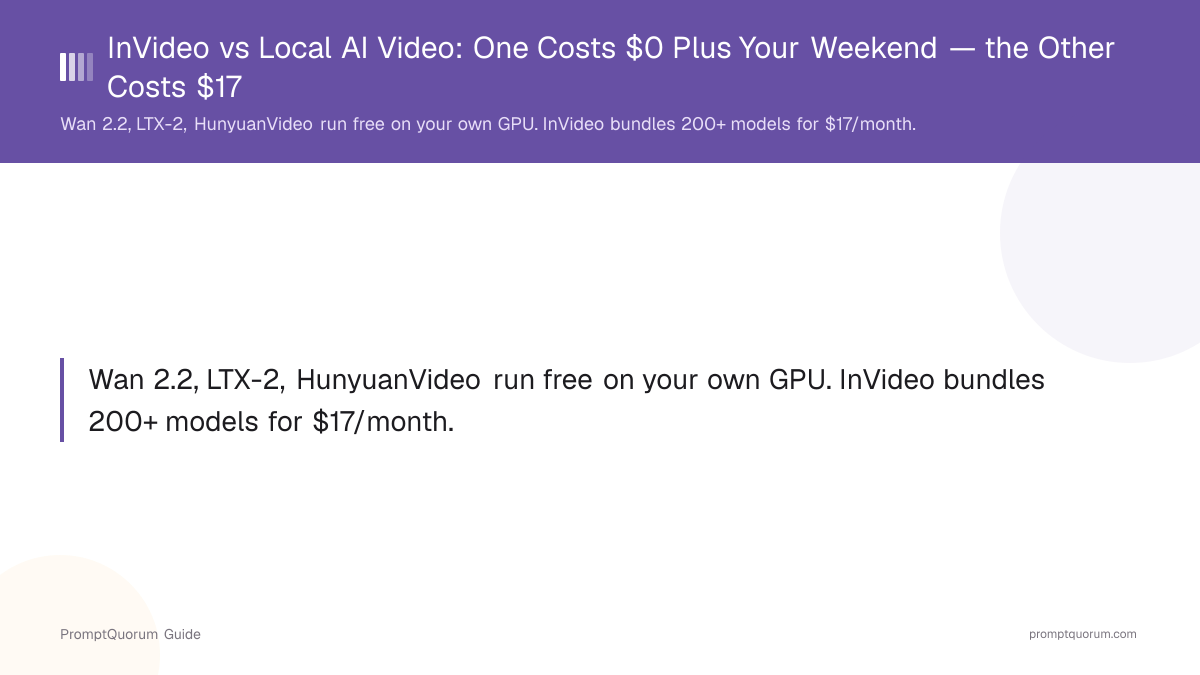
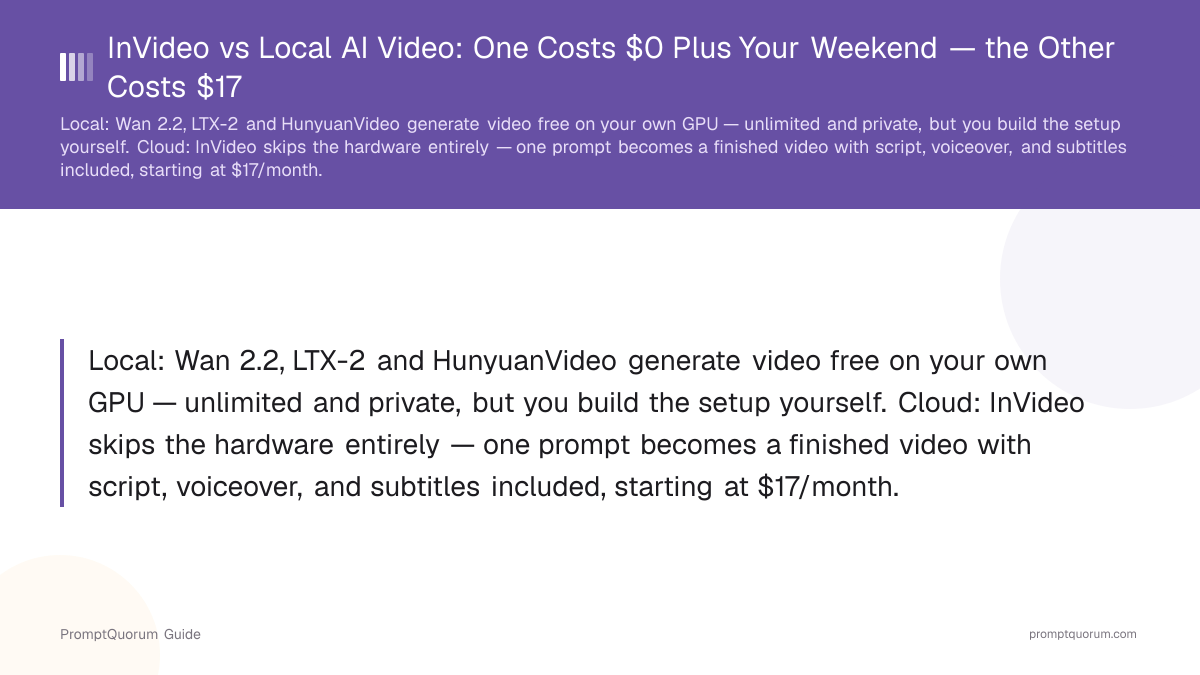
feat: standing rule — hero images need 3-5 lines of real body detail
The hero-image body subtitle had no line-clamp, but its minimum-character
floor (80 Latin / 30 CJK) only guaranteed ~1-2 lines of text, not the
substantive detail a Discover hero should carry. Raises the floor to 220
Latin / 85 CJK chars (calibrated to the body's fontSize:28px/maxWidth:1000px
box, ~65-70 chars/line) and documents the 3-5 line rule directly in the
route so future hero generations follow it by default, not by request.

Regenerates the video article's hero with a real 4-line body explaining
what local vs. cloud actually means, instead of the 1-line teaser it had.

Changed region(s): [[0.0, 0.1556, 1.0, 0.3111], [0.0308, 0.4978, 0.8942, 0.7467]]

diff --git a/src/app/api/hero-image/route.tsx b/src/app/api/hero-image/route.tsx
@@ -38,12 +38,21 @@ type HeroSpec = {
 // title band + one line of text + a blank 500px void) can never ship again.
 // Counts only what actually fills the body — table cells, callout, or bullets
 // — not the header/subtitle, which is capped at 2 lines regardless of length.
+//
+// STANDING RULE: every hero's body content (whether that's the subtitle
+// fallback, bullets, table, or callout) must render at least 3 lines of
+// real, specific detail in the body — not just clear this floor by a
+// sentence fragment. At the body subtitle's fontSize:28px / maxWidth:1000px
+// (see the no-bullets/table/callout fallback below), ~65-70 Latin chars fit
+// per line, so ~220 chars is the practical 3-line floor; write closer to
+// 300-350 chars (4-5 lines) when the topic supports it — e.g. spell out
+// what each side of a comparison actually is, not just restate the title.
 // CJK/Korean text conveys far more per character than Latin scripts (a 78-char
 // Japanese sentence is a complete, substantial description, not a fragment),
 // so the floor is scaled down for those languages rather than applying one
 // Latin-calibrated threshold everywhere.
-const MIN_BODY_CHARS_DEFAULT = 80
-const MIN_BODY_CHARS_CJK = 30
+const MIN_BODY_CHARS_DEFAULT = 220
+const MIN_BODY_CHARS_CJK = 85
 const CJK_LANGS = new Set(['zh', 'ja', 'ko'])
 
 function minBodyChars(lang: string): number {
